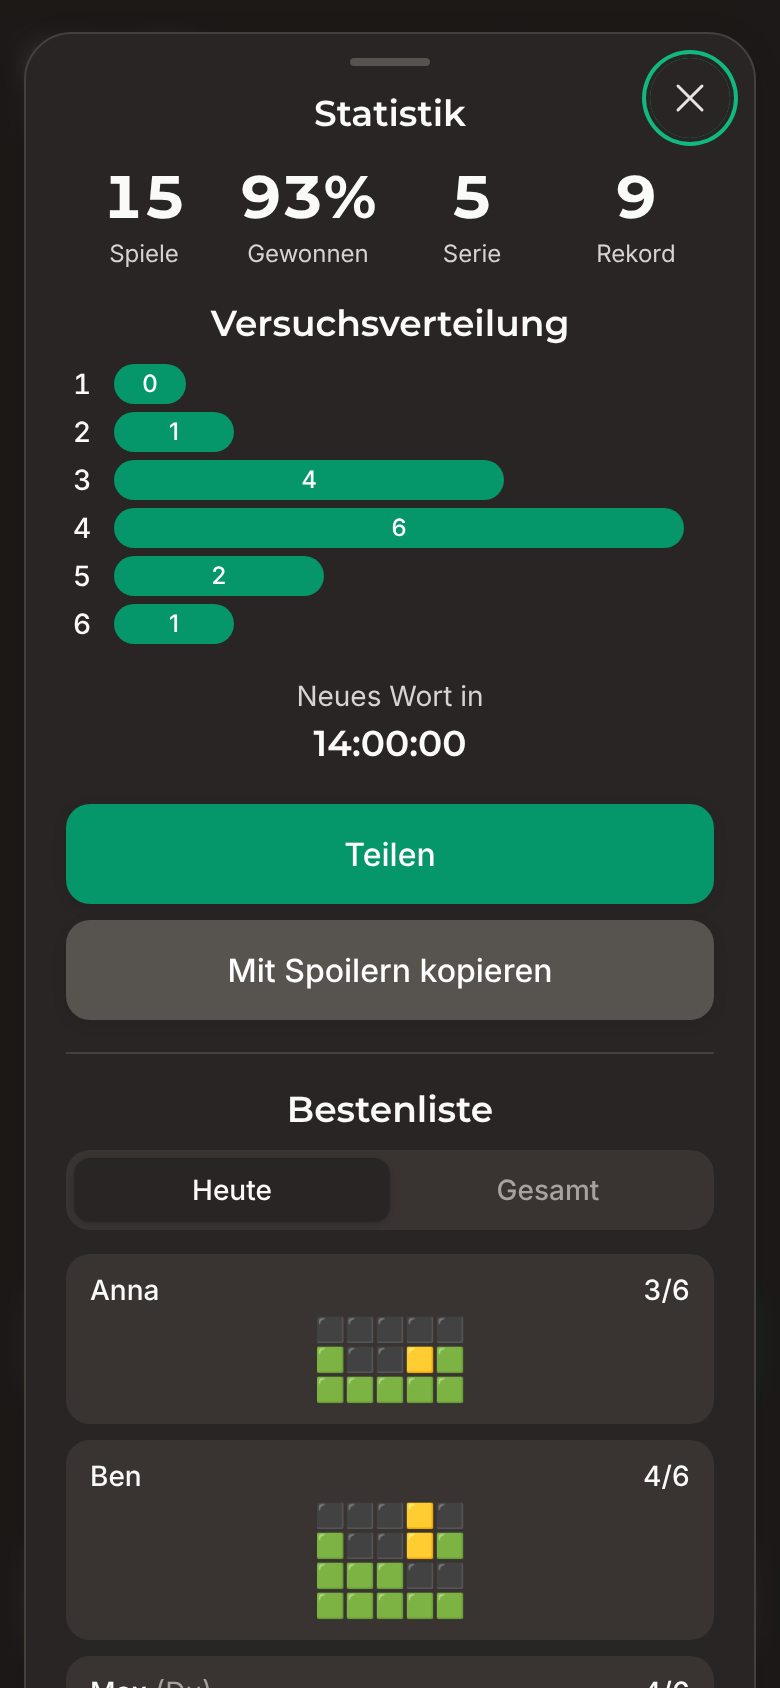
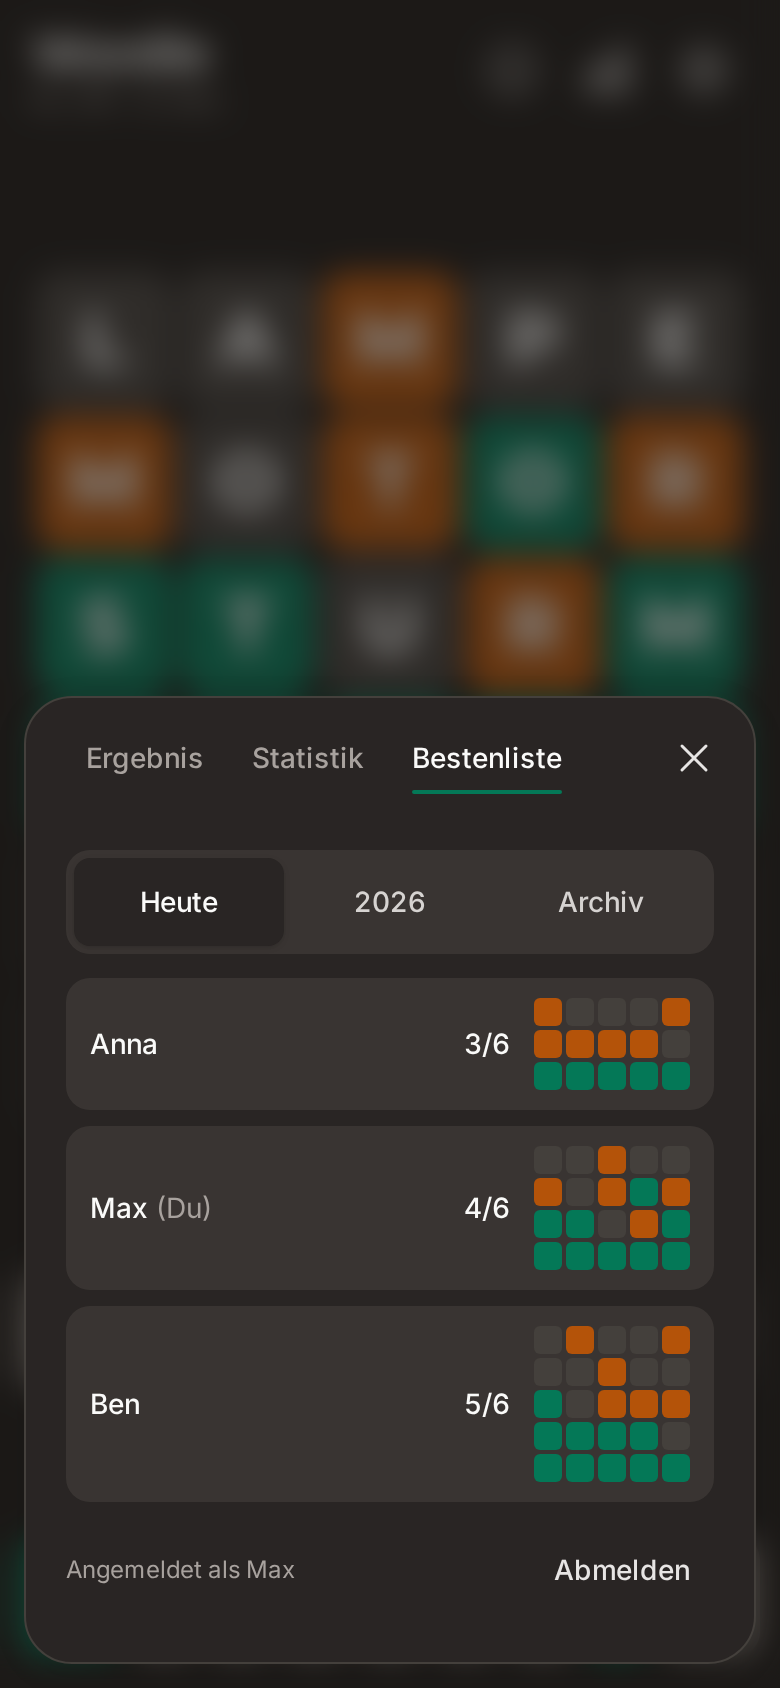
Docs: new screenshots and text for the redesigned UI

diff --git a/README.md b/README.md
@@ -10,11 +10,13 @@
 Wordle – German Edition is a daily word puzzle in the spirit of Wordle: guess the five-letter word in six tries. It's a self-hostable Progressive Web App (PWA) with no ads, no tracking and no accounts. Your progress stays on your device. An optional leaderboard, shared by passphrase, lets friends compare results.
 
 <p align="center">
-  <img src="docs/screenshots/game.png" alt="Game board with three guesses and colour-coded keyboard" width="260">
+  <img src="docs/screenshots/game.png" alt="Game board with three guesses and colour-coded keyboard" width="200">
   &nbsp;
-  <img src="docs/screenshots/stats-leaderboard.png" alt="Statistics and daily leaderboard in dark mode" width="260">
+  <img src="docs/screenshots/result.png" alt="Result sheet after a win: tile grid, share button and countdown" width="200">
   &nbsp;
-  <img src="docs/screenshots/settings.png" alt="Settings: hard mode, dark mode, high contrast" width="260">
+  <img src="docs/screenshots/stats-leaderboard.png" alt="Daily leaderboard in dark mode" width="200">
+  &nbsp;
+  <img src="docs/screenshots/settings.png" alt="Settings: hard mode, design (system, light, dark), high contrast" width="200">
 </p>
 
 ## Features
@@ -23,8 +25,9 @@ Wordle – German Edition is a daily word puzzle in the spirit of Wordle: guess 
 - **Universal keyboard**: umlauts and ß are spelled out (`ä → ae`, `ß → ss`), so any keyboard works.
 - **Edit with the cursor**: tap any letter in the current row to overwrite it.
 - **Hard mode**: every guess must use the hints already revealed.
-- **Dark mode and high contrast**: includes a colour-blind-friendly palette.
-- **Statistics**: tracks streaks and the distribution of guesses per game, stored locally.
+- **Built for phones**: the board always fits the screen without scrolling, with large keys and readable colours.
+- **Light, dark or system theme, and high contrast**: includes a colour-blind-friendly palette.
+- **Result and statistics**: a result sheet after every game, plus streaks and the distribution of guesses per game, stored locally.
 - **Sharing**: share via the system share sheet or the clipboard, with an optional spoiler version for friends.
 - **Installable PWA**: works offline and feels native on iOS and Android home screens.
 - **Optional leaderboard**: daily and yearly rankings (with an archive of past years) for everyone who knows a shared passphrase. Grids only unlock once you've finished the word yourself, and the game is unaffected if the backend is down.
@@ -64,7 +67,7 @@ make up-prod                          # app + leaderboard API → http://localho
 
 ## Tech stack
 
-React 18, TypeScript (strict), Vite 6, Tailwind CSS 4, Headless UI, Framer Motion and `vite-plugin-pwa`. Tests use Vitest and Testing Library. The optional backend uses Fastify and SQLite (`better-sqlite3`). Production serves the static build with nginx.
+React 18, TypeScript (strict), Vite 6, Tailwind CSS 4, Headless UI and `vite-plugin-pwa`. Tests use Vitest and Testing Library. The optional backend uses Fastify and SQLite (`better-sqlite3`). Production serves the static build with nginx.
 
 ## Contributing
 

diff --git a/docs/leaderboard.md b/docs/leaderboard.md
@@ -5,12 +5,14 @@
 The Stats sheet can show **daily** and **yearly** rankings, plus an archive of past years and an all-time table, for everyone who knows a shared passphrase. It's backed by a small self-hosted service in [`server/`](../server) (Fastify + SQLite). The game works the same whether or not the service is deployed.
 
 <p align="center">
-  <img src="screenshots/stats-leaderboard.png" alt="Daily leaderboard in the Stats modal" width="300">
+  <img src="screenshots/stats-leaderboard.png" alt="Daily leaderboard in the stats sheet" width="260">
+  &nbsp;
+  <img src="screenshots/leaderboard-archive.png" alt="Archive with the all-time table and a finished year" width="260">
 </p>
 
 ## How it works
 
-- **Joining:** a player opens Stats and enters a display name and the shared passphrase. Both are cached in `localStorage` on that device. There are no accounts: anyone who knows the passphrase can join under any name.
+- **Joining:** a player opens the stats sheet, switches to *Bestenliste* and enters a display name and the shared passphrase. Both are cached in `localStorage` on that device. There are no accounts: anyone who knows the passphrase can join under any name.
 - **Submitting:** the result is posted automatically when a game ends, or when you join after finishing. A submission that failed (e.g. offline) is retried the next time the leaderboard is opened. Each person has one row per day, keyed by `(date, name)` and updated if they submit again.
 - **Spoiler protection:** before you've finished the day's word, you only see names and guess counts. The full colour grids unlock once your own result for that day is stored.
 - **Overall score:** a win scores 6 points for one guess, down to 1 point for six guesses. A loss scores 0. Ties are broken by number of wins, then lower average guesses, then name.

diff --git a/docs/development.md b/docs/development.md
@@ -53,13 +53,14 @@ Docker shortcuts are in the `Makefile` (`make help`). The most useful are `make 
 ```
 wordle/
 ├── src/
-│   ├── App.tsx              # Layout, modals, leaderboard submission
+│   ├── App.tsx              # Layout, sheets, leaderboard submission
 │   ├── components/
-│   │   ├── alerts/          # Toast notifications
+│   │   ├── alerts/          # Message bar shown over the header
 │   │   ├── grid/            # Board, rows, cells (cursor editing)
 │   │   ├── keyboard/        # On-screen keyboard with key statuses
-│   │   ├── modals/          # Info, Settings, Stats (Headless UI)
-│   │   └── stats/           # Histogram, stat bar, Leaderboard
+│   │   ├── modals/          # Bottom sheets: Info, Settings, Stats (Headless UI)
+│   │   ├── stats/           # Histogram, stat bar, mini grid, Leaderboard
+│   │   └── tabs/            # Tab bar used by the stats sheet and leaderboard
 │   ├── constants/
 │   │   ├── settings.ts      # MAX_WORD_LENGTH, MAX_CHALLENGES, timings
 │   │   ├── strings.ts       # All German UI copy
@@ -70,7 +71,7 @@ wordle/
 │   └── lib/                 # words, statuses, stats, share, leaderboard, localStorage, haptics
 ├── server/                  # Optional Fastify + SQLite leaderboard API
 ├── docker/                  # nginx config for the production image
-├── public/                  # PWA icons, manifest, self-hosted fonts
+├── public/                  # PWA icons, manifest, self-hosted fonts, theme-init.js
 └── docs/                    # This documentation + screenshots
 ```
 

diff --git a/DOCKER.md b/DOCKER.md
@@ -226,7 +226,7 @@ services:
       - "traefik.http.routers.wordle.tls.certresolver=letsencrypt"
       - "traefik.http.services.wordle.loadbalancer.server.port=8080"
 
-  # Optional — powers the daily leaderboard folded into the Stats modal.
+  # Optional — powers the leaderboard in the stats sheet.
   # Omit this service entirely and the app keeps working normally; nginx's
   # /api/ proxy just 502s and the frontend fails silently. Must be named
   # "leaderboard-api" and share a network with "wordle" — nginx resolves that name
@@ -315,7 +315,7 @@ Let Caddy/Traefik set HSTS; the app image already sends CSP and related headers.
 
 ## Leaderboard API (optional)
 
-`server/` is a small Fastify + SQLite service that powers the daily and overall leaderboard folded into the Stats modal. It's entirely optional — the core game works identically with or without it.
+`server/` is a small Fastify + SQLite service that powers the daily and yearly leaderboard in the stats sheet. It's entirely optional — the core game works identically with or without it.
 
 - **Auth**: one shared `LEADERBOARD_PASSPHRASE` env var; anyone who knows it enters it once alongside a display name, cached in `localStorage` on their device. There's no per-person account — the passphrase is the only gate. The app sends it as `Authorization: Bearer <encodeURIComponent(passphrase)>`, so it stays out of URLs and access logs.
 - **Yearly rounds**: the overall ranking restarts every calendar year; finished years and an all-time table stay available in the app's archive. Nothing is deleted. Set `LEADERBOARD_ROUNDS=none` for a single never-resetting ranking.

diff --git a/CLAUDE.md b/CLAUDE.md
@@ -73,5 +73,7 @@ Versioning: SemVer from root `package.json`; `server/package.json` must carry th
 
 - `GAME_TITLE` comes from `import.meta.env.VITE_GAME_NAME` — ensure env is set for builds that need a title.
 - Reveal animations use `REVEAL_TIME_MS`; lose/win delays depend on it — don't hardcode timings elsewhere.
+- The theme is applied before the app loads by `public/theme-init.js` (external file because the CSP forbids inline scripts). It mirrors the `theme` / `highContrast` keys in `src/lib/localStorage.ts` and the colours in `src/hooks/useTheme.ts` — change them together.
+- Animations are CSS only (`src/index.css`); `prefers-reduced-motion` is handled there, not in components.
 - PWA service worker is registered via `vite-plugin-pwa` (`virtual:pwa-register`).
 - `server/` has its own `package.json`/`node_modules`, separate from the root — `npm install` at repo root does not install it; `cd server && npm install`.
